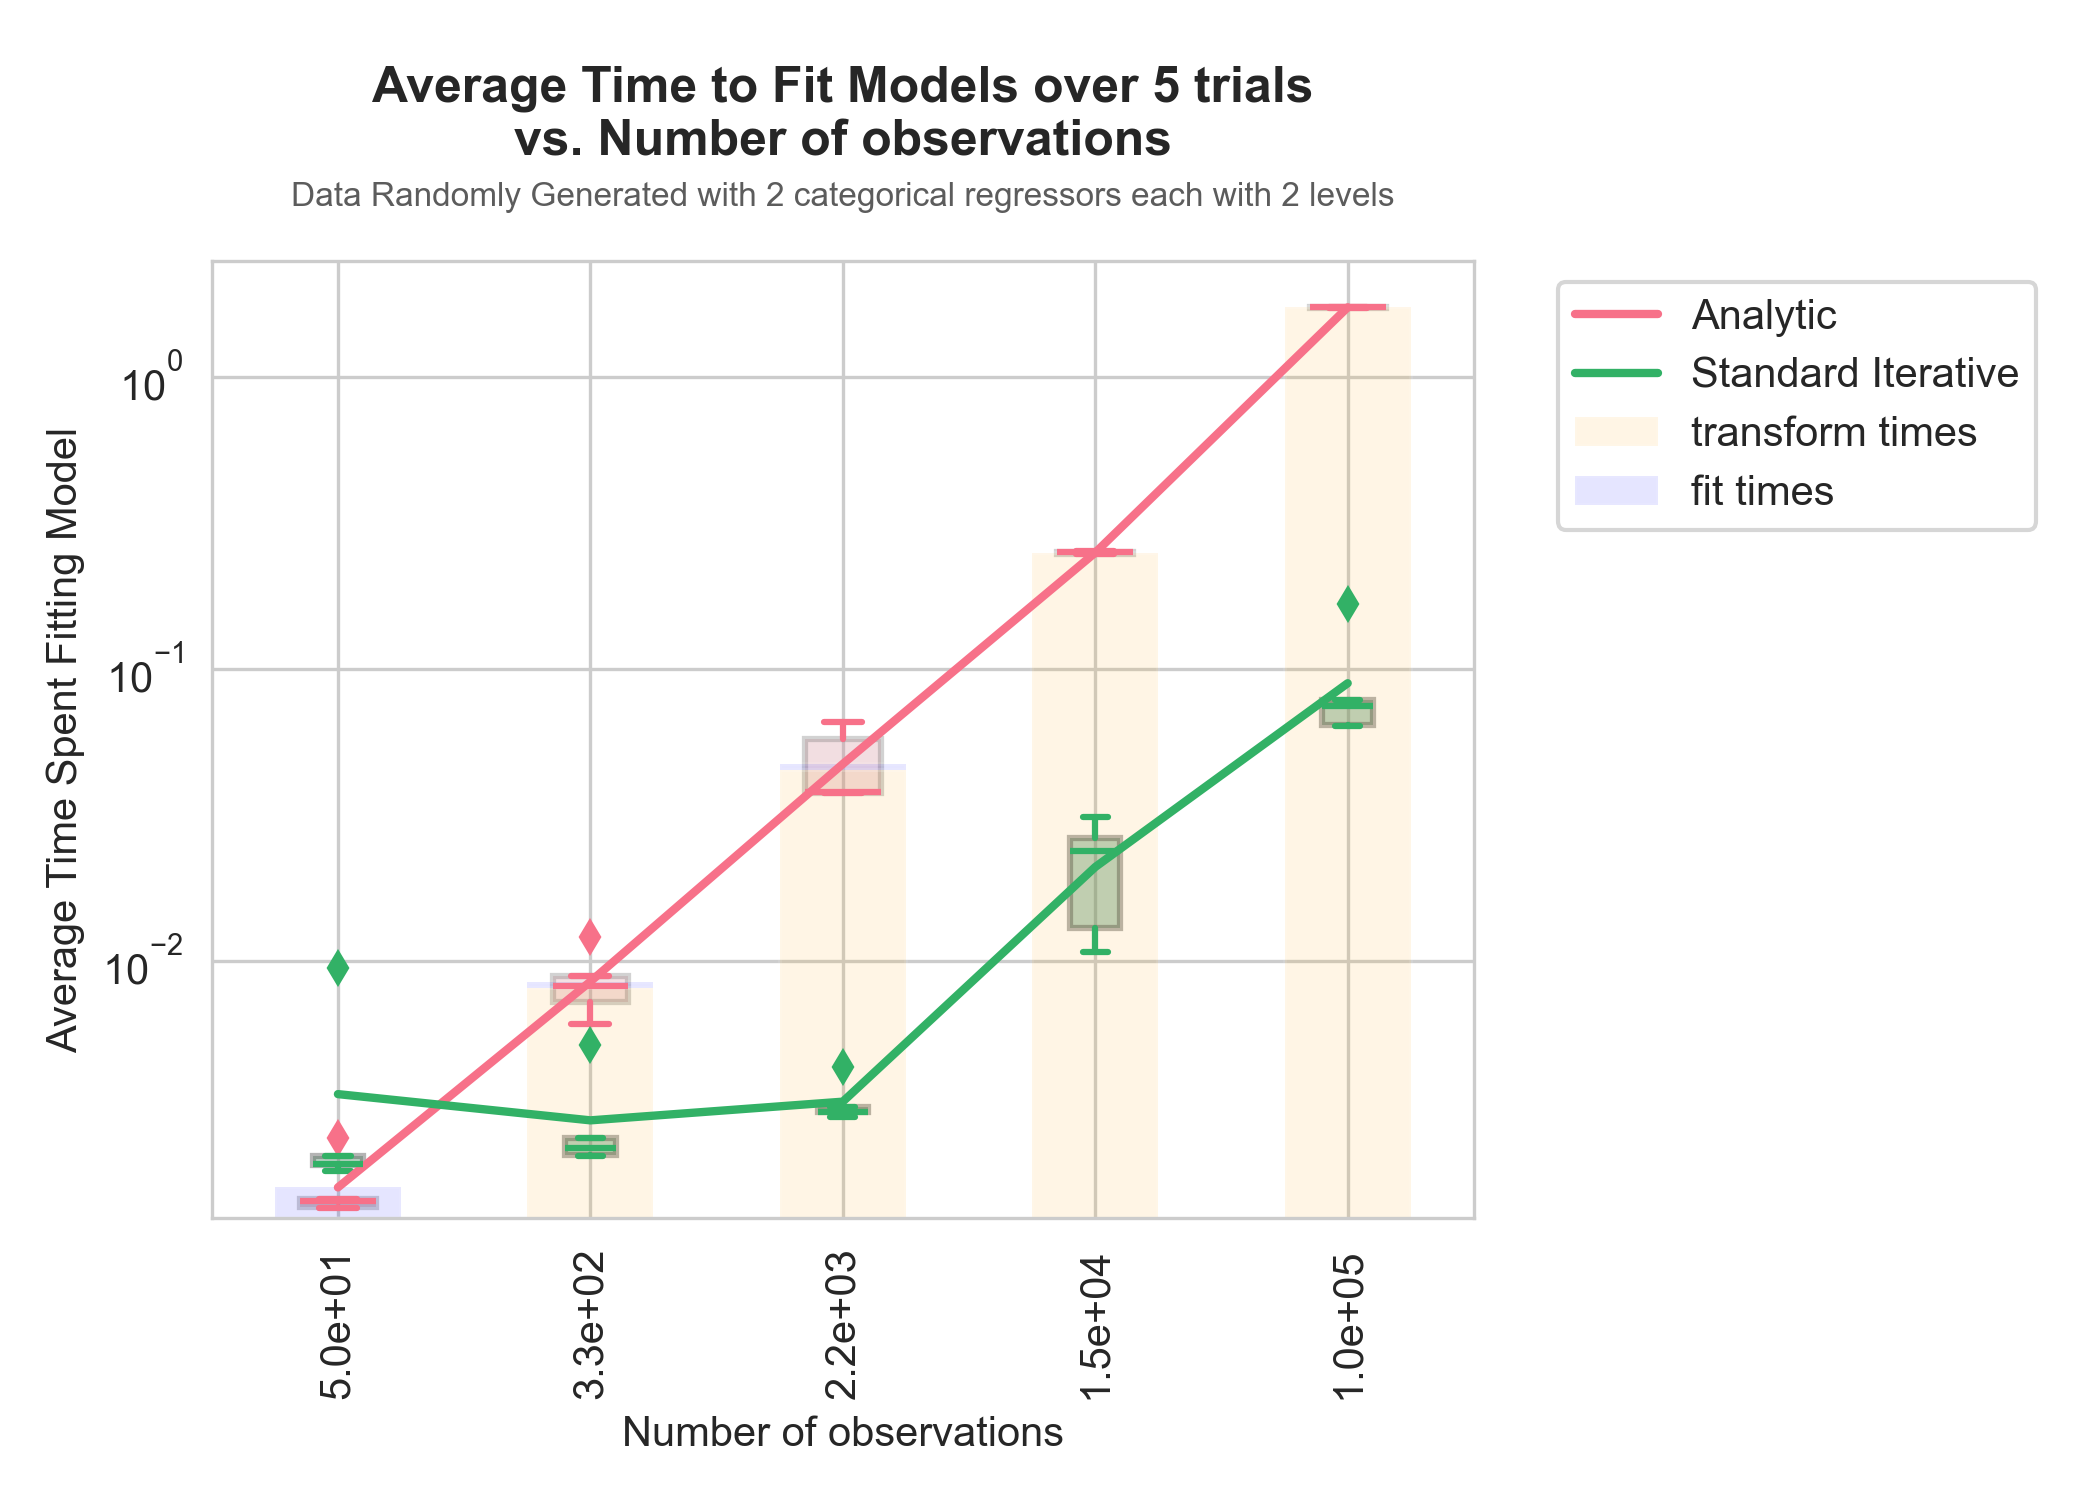
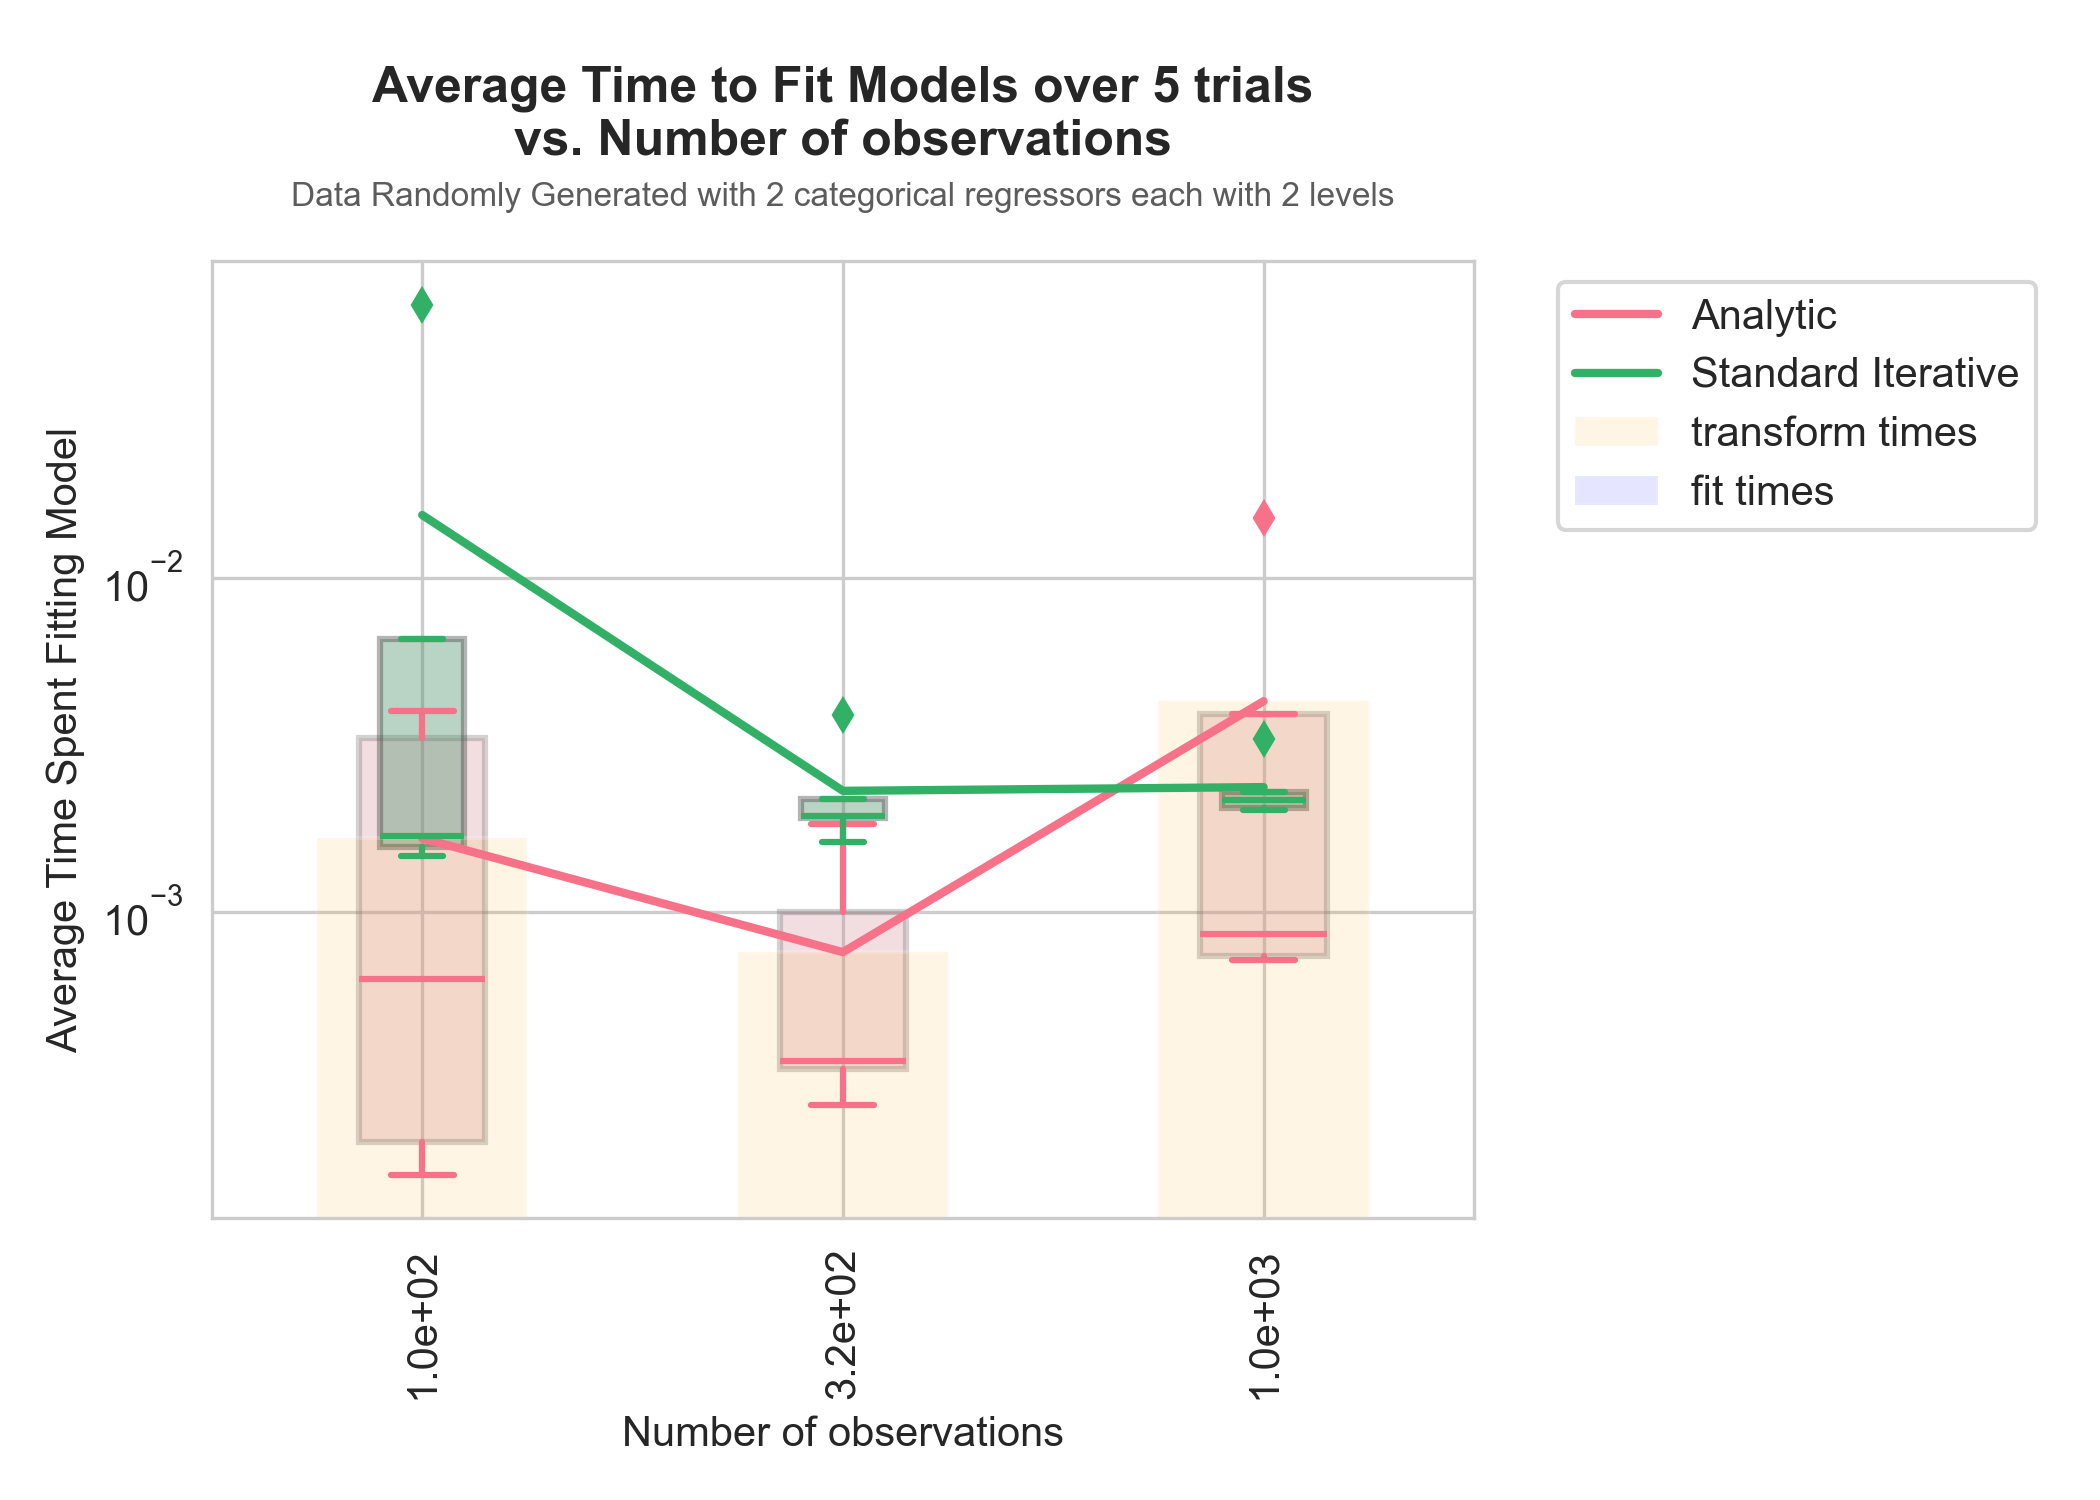
sped up a lot git push

diff --git a/AnalyticalSolution.py b/AnalyticalSolution.py
@@ -44,7 +44,7 @@ class AnalyticalSolution:
         self._x_tilde = None
         self._invert_this = None
         self._z = None
-        self._Xz = None
+        # self._Xz = None
         self._level_counts = None
 
         # count the number of levels of each predictor
@@ -108,143 +108,79 @@ class AnalyticalSolution:
         self._x_tilde = xt
 
         prod = (xt.T).dot(xt)
+
         print(prod)
 
     def transform_response(self):
 
-        # perform 1-hot encoding
+        start_time = timer()
+
         df_encoded = self._encoded_x
 
-        # combinations = self._x_tilde.values.tolist()
-        # self._combinations = combinations
+        ones_column = np.ones((df_encoded.shape[0], 1), dtype=int)
+        # df_encoded = np.hstack((ones_column, df_encoded))
+
+        y = self._y
+
+        decimal_numbers = np.dot(
+            df_encoded, 2 ** np.arange(df_encoded.shape[1])[::-1])
+
+        # unq, inverse_indices, cnt = np.unique(
+        #     df_encoded, axis=0, return_counts=True, return_inverse=True)
+
+        unq, indices,  inverse_indices, cnt = np.unique(
+            decimal_numbers, axis=0, return_index=True, return_counts=True, return_inverse=True)
+
+        # sorted_indices = sorted(indices)
+        # unq = decimal_numbers[sorted_indices]
+
+        # sorted_inverse_indices = np.argsort(sorted_indices)[inverse_indices]
+
+        num_bits = df_encoded.shape[1]
+        unq = ((unq[:, None] & (
+            1 << np.arange(num_bits)[::-1])) > 0).astype(int)
+
+        end_time = timer()
+        transform_time = end_time - start_time
+
+        start_time = timer()
 
         response = [x[0] for x in self._y.tolist()]
 
-        # start with row in df
-        # method 1: faster with high number of regressors and levels
+        # Compute success_counts
+        success_counts = np.bincount(inverse_indices, weights=response)
 
-        num_reg = self._x.shape[1]
+        # Compute success_frequencies
+        count_per_row = np.bincount(inverse_indices)
+        success_frequencies = np.where(
+            count_per_row > 0, success_counts / count_per_row, 0)
 
-        combo_count = defaultdict(int)
+        # To remove rows where freq == 0 or freq == 1
+        to_delete = np.where((success_frequencies == 0) |
+                             (success_frequencies == 1))[0]
 
-        num_reg = self._x.shape[1]
+        success_frequencies = np.delete(
+            np.array(success_frequencies), to_delete, axis=0)
+        unq = np.delete(unq, to_delete, axis=0)
 
-        success_counts = defaultdict(int)
+        cnt = np.delete(cnt, to_delete, axis=0)
 
-        levels = self._level_counts
+        W = np.diag(cnt * success_frequencies*(1-success_frequencies))
 
-        # We can also consturct the (X_tilde^T W X_tilde) matrix here
-        mat_size = 1 - len(levels) + sum(levels)
-        # print()
+        z = np.log((success_frequencies) / (1-success_frequencies))
 
-        invert_this = np.zeros((mat_size, mat_size))
+        # add intercept column to unq
+        ones_column = np.ones((unq.shape[0], 1), dtype=int)
+        unq = np.hstack((ones_column, unq))
 
-        list_of_tilde_indicies = []
-        list_of_one_indicies = []
-
-        start_time = timer()
-        for index, row in df_encoded.iterrows():
-            one_indicies = []
-            sub_row_start_idx = 0
-            row = row.tolist()
-            tilde_idx = 0
-
-            for i in range(num_reg):
-                Ki = levels[i]
-                sub_row = row[sub_row_start_idx:sub_row_start_idx + Ki - 1]
-
-                one_index = sub_row.index(1) if 1 in sub_row else -1
-
-                if one_index != -1:
-                    one_indicies.append(one_index + sub_row_start_idx)
-
-                if one_index >= 1:
-                    tilde_idx += (Ki - one_index - 1) * Ki ** (i)
-                elif one_index == -1:
-                    tilde_idx += (Ki - 1) * Ki ** (i)
-
-                # update the information to get next subrow
-                sub_row_start_idx = sub_row_start_idx + Ki - 1
-
-            # update the counts of each row of the data
-            list_of_one_indicies.append(one_indicies)
-            list_of_tilde_indicies.append(tilde_idx)
-            combo_count[tilde_idx] += 1
-
-            # update the success counts of the row of data
-            success_counts[tilde_idx] += response[index]
-
-        # time to compute our success frequencies
+        Xw = unq.T @ W
+        g = inv(Xw@unq) @ Xw @ z
+        self._gamma = g
         end_time = timer()
-        print("first time chunk: compute success coutnts and lists of indicies")
-        print(end_time-start_time)
 
-        start_time = timer()
-        success_frequencies = defaultdict(int)
-        for tilde_idx in list(success_counts.keys()):
-            if combo_count[tilde_idx] != 0:
-                success_frequencies[tilde_idx] = success_counts[tilde_idx] / \
-                    combo_count[tilde_idx]
+        fit_time = end_time - start_time
 
-        for design_idx in range(len(list_of_one_indicies)):
-            one_indicies = list_of_one_indicies[design_idx]
-            tilde_idx = list_of_tilde_indicies[design_idx]
-
-            f = success_frequencies[tilde_idx]
-            alpha = f*(1-f)
-            invert_this[0, 0] += alpha
-
-            for row in one_indicies:
-                invert_this[0, row + 1] += alpha
-                invert_this[row + 1, 0] += alpha
-                invert_this[row + 1, row + 1] += alpha
-                for col in one_indicies:
-                    # col0 and row0
-                    if row != col:
-                        invert_this[row + 1, col + 1] += alpha
-        end_time = timer()
-        print("second time chunk: compute invert this")
-        print(end_time-start_time)
-
-        # self._w_combo_counts = combo_count
-        self._invert_this = invert_this
-        self._success_counts = success_counts
-
-        # keys = sorted(success_frequencies.keys())
-        # sf = [success_frequencies[idx] for idx in keys]
-
-        # find X^T z directly here
-
-        start_time = timer()
-        set_of_tilde_indicies = set(list_of_tilde_indicies)
-        Xz = np.array([0] * mat_size)
-
-        unique_rows = df_encoded.drop_duplicates()
-        # Optionally reset the index
-        unique_rows = unique_rows.reset_index(drop=True)
-
-        # print(unique_rows)
-
-        unique_indicies = []
-        unique_set = set()
-
-        for idx in list_of_tilde_indicies:
-            if idx not in unique_set:
-                unique_set.add(idx)
-                unique_indicies.append(idx)
-
-        for index, row in unique_rows.iterrows():
-            tilde_idx = unique_indicies[index]
-            row = row.values.tolist()
-            f = success_frequencies[tilde_idx]
-            Xz = Xz + combo_count[tilde_idx]*f * \
-                (1-f)*np.array([1]+row) * math.log(f/(1-f))
-
-        end_time = timer()
-        print("third time chunk: compute Xz")
-        print(end_time-start_time)
-
-        self._Xz = pd.DataFrame(Xz)
+        return fit_time, transform_time
 
     def count_levels(self):
         data = np.array(copy.deepcopy(self._x))

diff --git a/Simulation.py b/Simulation.py
@@ -52,18 +52,14 @@ class Simulation:
         analytical_model.set_lambda(self._lambda)
         analytical_model.set_penalty(self._penalty)
 
-        start_time = timer()
-        analytical_model.transform_response()
-        end_time = timer()
+        fit_time, transform_time = analytical_model.transform_response()
+
         # z = analytical_model.get_transformed()[0].values
         # x_tilde = analytical_model.get_transformed()[1]
-        self._analytical_transform_time = end_time - start_time
-        start_time = timer()
-        analytical_model.fit()
 
-        end_time = timer()
-
-        self._analytical_fit_time = end_time - start_time
+        # self._analytical_transform_time = transform_time
+        self._analytical_transform_time = transform_time
+        self._analytical_fit_time = fit_time
 
         return analytical_model
 
@@ -73,7 +69,7 @@ class Simulation:
         start_time = timer()
         if self._lambda == 0:
             iterative_model = LogisticRegression(
-                solver='lbfgs', penalty='none')
+                solver='lbfgs', penalty=None)
 
         else:
             iterative_model = LogisticRegression(
@@ -81,24 +77,23 @@ class Simulation:
         df_encoded = pd.get_dummies(self._sim_data, drop_first=True)
         df_encoded_1 = df_encoded.astype(int)
 
-        iterative_model.fit(df_encoded_1, self._sim_y)
+        iterative_model.fit(df_encoded_1, self._sim_y.ravel())
         end_time = timer()
 
         # set the time the model took to run
-        print("Iterative model time")
-        print(end_time - start_time)
+        # print("Iterative model time")
+        # print(end_time - start_time)
         self._iterative_time = end_time - start_time
         return iterative_model
 
     def get_parameters(self):
         true = self._generator.get_params()
 
-        gamma = [round(x, 3)
-                 for x in self._analytical_model.get_gamma()[0].tolist()]
+        gamma = self._analytical_model.get_gamma().tolist()
 
         lib_lin_sol = list(self._iterative_model.intercept_) + \
             list(self._iterative_model.coef_[0])
-        lib_lin_sol = [round(x, 3) for x in lib_lin_sol]
+        lib_lin_sol = [x for x in lib_lin_sol]
 
         return np.array(true), np.array(gamma), np.array(lib_lin_sol)
 

diff --git a/main.py b/main.py
@@ -16,13 +16,15 @@ import RealDataExperiment
 # min_x = np.log(2)/np.log(10)
 # max_x = np.log(8)/np.log(10)
 
-min_x = 3
-max_x = 4
+min_x = 2
+max_x = 7
 
-for num_reg in [3]:
-    sim = ExperimentSimulations.ExperimentSimulations(num_trials=50, num_regressors=num_reg, num_levels=2, num_obs=10**3, log_min_x=min_x,
-                                                      log_max_x=max_x, number_x_ticks=5, beta_range=[-3, 3], penalty=None)
+for num_reg in [2]:
+    sim = ExperimentSimulations.ExperimentSimulations(num_trials=10, num_regressors=num_reg, num_levels=2, num_obs=10**3, log_min_x=min_x,
+                                                      log_max_x=max_x, number_x_ticks=5, beta_range=[-2, 2], penalty=None)
     sim.run_observation_sim()
+
+    # sim.run_regressors_sim()
 
 
 #
